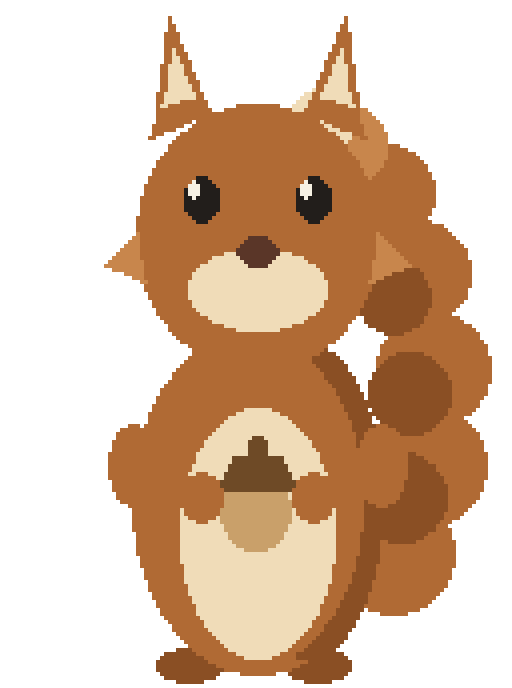
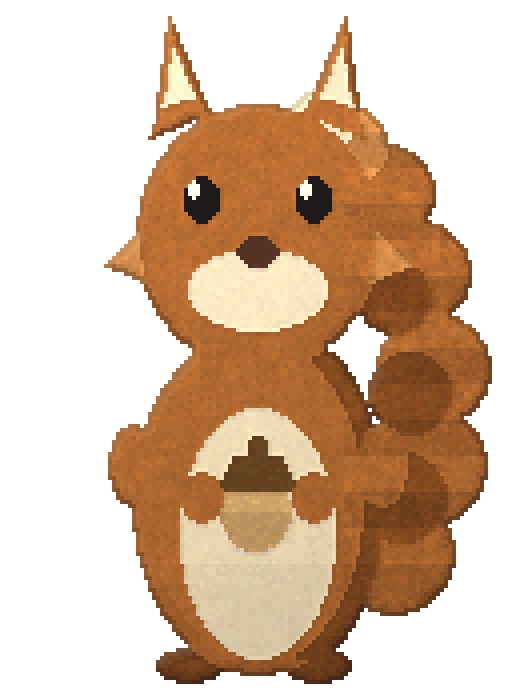
NPC art grade pass: multi-tone shading, outline ring, fur grain for the settlement four
tools/grade_npcs.py regenerates the flat PIL base from gen_npcs2.py,
grades it on the native 128x172 grid (upper-left directional tone,
internal boundary bevel, stepped hash grain, varied dark outline ring,
rim light, foot AO) with per-sprite region work — Bramble's spines get
tonal drift + sparse pale tips + pits, Tansy's tail gets banding +
grain, Vex gets cheek/scarf/body texture, the Hermit's shawl gets row
shading + folds. Alpha byte-identical, canvas 512x688, min visible
channel 26 (art law). Visible colours 9-20 -> 267-462.

diff --git a/tools/grade_npcs.py b/tools/grade_npcs.py
@@ -1,0 +1,372 @@
+#!/usr/bin/env python3
+"""Grade pass for the four settlement NPC sprites (Bramble, Tansy, Vex,
+the Hermit) — the finish the PIL-drawn folk (tools/gen_npcs2.py) lacked
+next to the generated original four and the hd2d-graded slimes.
+
+The originals carry what the flat drawings don't: multi-step tonal
+shading from an upper-left light, a dark varied outline ring, internal
+form separation at colour boundaries, mottled fur/cloth grain, and
+grounding occlusion at the feet.  This pass bakes the equivalent into
+the settlement four WITHOUT touching their silhouettes, identity or the
+512x688 canvas: the generator's flat art is rebuilt into a temp dir,
+graded on its native 128x172 grid (the drawing's own resolution, so the
+chunky pixel grain survives), then NEAREST x4 back to 512x688 exactly
+as gen_npcs2.finish() does.  Alpha is byte-identical by construction
+and asserted against the shipped file before anything is overwritten.
+
+Machinery (geometry, tone field, rim fields, hash grain) is reused from
+tools/hd2d/enhance.py — the pass Handler approved for the slimes.
+Deterministic: every texture is a splitmix hash of (x, y, seed).
+
+Art law: no true black — every visible channel ends >= 26
+(tools/lift_shadows.py's black point), asserted per sprite.
+
+Run from the repo root:  python3 tools/grade_npcs.py [--only bramble]
+"""
+
+from __future__ import annotations
+
+import argparse
+import importlib.util
+import subprocess
+import sys
+import tempfile
+from pathlib import Path
+
+import numpy as np
+from PIL import Image
+
+REPO_ROOT = Path(__file__).resolve().parents[1]
+GRID_W, GRID_H, SCALE = 128, 172, 4
+NAMES = ("bramble", "tansy", "vex", "hermit")
+
+_spec = importlib.util.spec_from_file_location(
+    "hd2d_enhance", Path(__file__).resolve().parent / "hd2d" / "enhance.py"
+)
+enh = importlib.util.module_from_spec(_spec)
+_spec.loader.exec_module(enh)
+
+INK = (34, 30, 27)        # eye ink — never grained or bevelled
+GLINT = (246, 241, 227)   # eye glint — never darkened
+WARM_RIM = (1.0, 0.94, 0.80)
+
+
+# ---------------------------------------------------------------- base art
+
+def regenerate_flat() -> dict[str, np.ndarray]:
+    """Run tools/gen_npcs2.py in a temp cwd; return {name: grid RGBA}."""
+    with tempfile.TemporaryDirectory() as tmp:
+        (Path(tmp) / "assets" / "img").mkdir(parents=True)
+        subprocess.run(
+            [sys.executable, str(REPO_ROOT / "tools" / "gen_npcs2.py")],
+            cwd=tmp, check=True, capture_output=True, text=True,
+        )
+        out = {}
+        for name in NAMES:
+            with Image.open(Path(tmp) / "assets" / "img" / f"npc-{name}.png") as im:
+                arr = np.asarray(im.convert("RGBA"))
+            grid = arr[::SCALE, ::SCALE]
+            if grid.shape != (GRID_H, GRID_W, 4):
+                raise AssertionError(f"{name}: unexpected grid {grid.shape}")
+            out[name] = grid.copy()
+    return out
+
+
+# ---------------------------------------------------------------- helpers
+
+def col_mask(flat: np.ndarray, visible: np.ndarray, *cols) -> np.ndarray:
+    m = np.zeros(flat.shape[:2], dtype=bool)
+    for c in cols:
+        m |= np.all(flat[..., :3] == np.array(c), axis=2)
+    return m & visible
+
+
+def grain(rgb, ctx, mask, seed, amp, cell=2):
+    """Stepped hash grain: factors land on discrete pixel-art steps."""
+    n = enh.hash01(ctx["x"], ctx["y"], seed, cell, cell) * 0.65 \
+        + enh.hash01(ctx["x"], ctx["y"], seed + 7) * 0.35
+    q = np.round((n - 0.5) * 4.0)
+    factor = np.where(mask, 1.0 + q * amp / 2.0, 1.0)
+    return enh.clamp01(enh.scale_rgb(rgb, factor))
+
+
+def stepped_blend(rgb, ctx, mask, centre, radii, colour, amount, steps=4):
+    field = enh.stepped(enh.ellipse_field(ctx, *centre, *radii), steps)
+    return enh.blend_to(rgb, colour, np.where(mask, field * amount, 0.0))
+
+
+# ---------------------------------------------------------------- common
+
+def grade_common(rgb, flat, ctx, seed, clean):
+    """Directional tone, internal bevel, unified grain, outline, rim, AO."""
+    visible = ctx["visible"]
+    gx, gy = ctx["x"], ctx["y"]
+
+    rgb = enh.tone_and_light(
+        rgb, ctx, contrast=0.24, saturation_factor=1.05,
+        top=0.10, bottom=0.12, left=0.045, right=0.035, rim_amount=0.0,
+    )
+
+    # Internal form separation: across a flat colour boundary the
+    # up-left pixel is the lit face, the down-right pixel the drop.
+    frgb = flat[..., :3]
+    lit = np.zeros(visible.shape, dtype=bool)
+    shade = np.zeros(visible.shape, dtype=bool)
+    edge_ok = visible & (ctx["depth"] >= 1)
+    diff_r = np.zeros(visible.shape, bool)
+    diff_r[:, :-1] = np.any(frgb[:, :-1] != frgb[:, 1:], axis=2) \
+        & visible[:, :-1] & visible[:, 1:]
+    diff_d = np.zeros(visible.shape, bool)
+    diff_d[:-1] = np.any(frgb[:-1] != frgb[1:], axis=2) \
+        & visible[:-1] & visible[1:]
+    lit[:, :-1] |= diff_r[:, :-1]; shade[:, 1:] |= diff_r[:, :-1]
+    lit[:-1] |= diff_d[:-1]; shade[1:] |= diff_d[:-1]
+    factor = np.ones(visible.shape)
+    factor[edge_ok & lit & clean] *= 1.05
+    factor[edge_ok & shade & clean] *= 0.935
+    rgb = enh.clamp01(enh.scale_rgb(rgb, factor))
+
+    # One light unified grain over everything that isn't eye detail.
+    rgb = grain(rgb, ctx, visible & (ctx["depth"] >= 1) & clean,
+                seed + 101, 0.028, cell=2)
+
+    # Outline ring: depth-0 pixels blend toward a deep shade of their own
+    # flat colour — deeper on the shadow side, lighter toward the light,
+    # so the outline varies like the generated folks' does.
+    depth = ctx["depth"]
+    ring = depth == 0
+    amt = 0.36 + 0.26 * ctx["rim_dark"] - 0.16 * ctx["rim_light"]
+    target = np.clip(flat[..., :3].astype(np.float64) / 255.0 * 0.40,
+                     26.0 / 255.0, 1.0)
+    rgb = np.where(ring[..., None],
+                   rgb * (1 - amt[..., None]) + target * amt[..., None], rgb)
+    inner = (depth == 1) & (ctx["rim_dark"] > 0.4)
+    rgb = enh.blend_to(rgb, (0.10, 0.09, 0.085),
+                       np.where(inner, 0.10, 0.0))
+
+    # Rim light on the upper-left silhouette, kept off pale faces/glints.
+    pale = enh.luminance(flat[..., :3].astype(np.float64) / 255.0) > 0.90
+    rim = (depth <= 1) & (ctx["rim_light"] > 0.28) & ~pale
+    ramt = ctx["rim_light"] * np.where(depth == 0, 0.15, 0.08)
+    rgb = enh.blend_to(rgb, WARM_RIM, np.where(rim, ramt, 0.0))
+
+    # Grounding: contact occlusion at the feet.
+    ao = (depth <= 2) & (ctx["ny"] > 0.86)
+    rgb = enh.scale_rgb(rgb, np.where(ao, 0.94, 1.0))
+    rgb = enh.clamp01(rgb)
+    _ = gx, gy
+    return rgb
+
+
+# ---------------------------------------------------------------- sprites
+
+def grade_bramble(rgb, flat, ctx, seed, clean):
+    v = ctx["visible"]; gy = ctx["y"]
+    SP, SPD, SPL = (74, 56, 38), (50, 38, 27), (112, 88, 58)
+    CRM, CRM2 = (232, 211, 172), (242, 224, 188)
+    dome = col_mask(flat, v, SP, SPD, SPL)
+    # the dome stops being one brown: coarse tonal drift + fine speckle.
+    # Spine TIPS stay sparse and live where the light lives (upper-left);
+    # an even glitter reads as noise, not spines.
+    rgb = grain(rgb, ctx, dome, seed + 11, 0.065, cell=3)
+    rgb = grain(rgb, ctx, dome, seed + 13, 0.028, cell=1)
+    roll = enh.hash01(ctx["x"], gy, seed + 17)
+    lit_side = (1.0 - ctx["ny"]) * 0.6 + (1.0 - ctx["nx"]) * 0.4
+    tips = dome & (roll > 0.955) & (lit_side > 0.35)
+    rgb = enh.blend_to(rgb, (0.78, 0.65, 0.48), np.where(tips, 0.40, 0.0))
+    pits = dome & (roll < 0.04)
+    rgb = enh.scale_rgb(rgb, np.where(pits, 0.76, 1.0))
+    rgb = grain(rgb, ctx, col_mask(flat, v, SPL), seed + 19, 0.05, cell=2)
+    # face: soft upper-left light, a whisper of jaw shade
+    face = col_mask(flat, v, CRM)
+    rgb = stepped_blend(rgb, ctx, face, (0.42, 0.46), (0.30, 0.24),
+                        tuple(c / 255 for c in CRM2), 0.38)
+    rgb = enh.scale_rgb(rgb, np.where(face & (gy >= 118), 0.96, 1.0))
+    muzzle = col_mask(flat, v, CRM2)
+    rgb = stepped_blend(rgb, ctx, muzzle, (0.50, 0.60), (0.17, 0.11),
+                        (0.985, 0.94, 0.82), 0.20)
+    # apron cloth + strap + feet
+    rgb = grain(rgb, ctx, col_mask(flat, v, (239, 230, 207), (150, 120, 84)),
+                seed + 23, 0.032, cell=2)
+    feet = col_mask(flat, v, (90, 66, 44))
+    rgb = enh.scale_rgb(rgb, np.where(feet, 0.93, 1.0))
+    return rgb
+
+
+def grade_tansy(rgb, flat, ctx, seed, clean):
+    v = ctx["visible"]; gx, gy = ctx["x"], ctx["y"]
+    FU, FUD, FUL = (176, 106, 52), (138, 79, 36), (200, 134, 76)
+    CRM = (240, 220, 184)
+    fur = col_mask(flat, v, FU, FUD, FUL)
+    # the tail: real banding across the curl + the strongest grain on her
+    tail = fur & (gx >= 86)
+    band = ((gy - 24) // 9) % 2 == 0
+    rgb = enh.scale_rgb(rgb, np.where(tail, np.where(band, 1.045, 0.945), 1.0))
+    rgb = grain(rgb, ctx, tail, seed + 11, 0.055, cell=2)
+    rgb = grain(rgb, ctx, fur, seed + 13, 0.045, cell=2)
+    rgb = grain(rgb, ctx, fur, seed + 15, 0.032, cell=5)
+    # creams lit from upper-left; belly settles at the bottom
+    cream = col_mask(flat, v, CRM)
+    rgb = stepped_blend(rgb, ctx, cream, (0.40, 0.38), (0.34, 0.30),
+                        (0.99, 0.955, 0.86), 0.22)
+    rgb = enh.scale_rgb(rgb, np.where(cream & (gy > 140), 0.96, 1.0))
+    rgb = enh.scale_rgb(rgb, np.where(fur & (gy < 14), 1.05, 1.0))
+    # acorn: two-tone nut, grained cap
+    nut = col_mask(flat, v, (201, 160, 106))
+    rgb = enh.scale_rgb(rgb, np.where(nut, np.where(gy <= 127, 1.045, 0.95), 1.0))
+    roll = enh.hash01(gx, gy, seed + 19)
+    rgb = enh.scale_rgb(rgb, np.where(nut & (roll > 0.92), 1.07, 1.0))
+    rgb = grain(rgb, ctx, col_mask(flat, v, (110, 74, 38)), seed + 23, 0.05, cell=2)
+    rgb = enh.scale_rgb(rgb, np.where(col_mask(flat, v, FUD) & (gy > 158), 0.94, 1.0))
+    return rgb
+
+
+def grade_vex(rgb, flat, ctx, seed, clean):
+    v = ctx["visible"]; gx, gy = ctx["x"], ctx["y"]
+    FU, FUD, WHT = (201, 122, 48), (164, 94, 36), (242, 234, 216)
+    DRK = (74, 52, 33)
+    head = col_mask(flat, v, FU, (222, 168, 120)) & (gy < 90)
+    rgb = stepped_blend(rgb, ctx, head, (0.38, 0.28), (0.45, 0.32),
+                        (0.87, 0.59, 0.28), 0.20)
+    rgb = enh.scale_rgb(rgb, np.where(head & (gy >= 72), 0.965, 1.0))
+    white = col_mask(flat, v, WHT)
+    muzzle = white & (gy < 90)
+    settle = enh.smoothstep(70, 86, gy)
+    rgb = enh.scale_rgb(rgb, np.where(muzzle, 1.0 - 0.05 * settle, 1.0))
+    chest = white & (gy >= 90)
+    rgb = enh.scale_rgb(rgb, np.where(chest & (ctx["nx"] > 0.60), 0.96, 1.0))
+    # scarf: fold stripes on the hanging tail, lit band top, grain
+    scarf = col_mask(flat, v, (85, 125, 60), (64, 98, 44))
+    folds = (gx // 3) % 2 == 0
+    rgb = enh.scale_rgb(rgb, np.where(scarf & (gy >= 86),
+                                      np.where(folds, 0.93, 1.0), 1.0))
+    rgb = enh.scale_rgb(rgb, np.where(scarf & (gy >= 76) & (gy <= 79), 1.06, 1.0))
+    rgb = grain(rgb, ctx, scarf, seed + 11, 0.04, cell=2)
+    # tail: gentle bands; the white tip settles grey at its foot
+    tail = col_mask(flat, v, FU) & (gx < 48)
+    band = (gy // 13) % 2 == 0
+    rgb = enh.scale_rgb(rgb, np.where(tail, np.where(band, 1.02, 0.975), 1.0))
+    rgb = enh.scale_rgb(rgb, np.where(white & (gx < 48) & (gy > 152), 0.95, 1.0))
+    # socks get a top rim; ear tips vary a touch
+    socks = col_mask(flat, v, DRK) & (gy >= 148)
+    rgb = enh.scale_rgb(rgb, np.where(socks & (gy <= 152), 1.07, 1.0))
+    rgb = grain(rgb, ctx, col_mask(flat, v, DRK), seed + 13, 0.035, cell=2)
+    rgb = grain(rgb, ctx, col_mask(flat, v, FUD), seed + 17, 0.04, cell=2)
+    # his body is the biggest single orange field of the four: give the
+    # fur itself grain and a settled lower body, and break the chest's
+    # paper flatness with a whisper of grain
+    body = col_mask(flat, v, FU) & (gy >= 90)
+    rgb = grain(rgb, ctx, body, seed + 19, 0.042, cell=2)
+    rgb = enh.scale_rgb(rgb, np.where(body & (gy >= 128), 0.97, 1.0))
+    rgb = grain(rgb, ctx, white, seed + 23, 0.018, cell=2)
+    return rgb
+
+
+def grade_hermit(rgb, flat, ctx, seed, clean):
+    v = ctx["visible"]; gx, gy = ctx["x"], ctx["y"]
+    MD, MS, MSL = (43, 96, 48), (79, 143, 68), (116, 175, 98)
+    shawl = col_mask(flat, v, MD, MS, MSL)
+    # drape shading: each scallop row sits a step deeper than the last,
+    # vertical fold stripes run down the fall, scale tops catch light
+    rows = np.clip(((gy - 94) // 10), 0, 5)
+    rgb = enh.scale_rgb(rgb, np.where(shawl, 1.0 - 0.03 * rows, 1.0))
+    folds = (gx // 4) % 2 == 0
+    rgb = enh.scale_rgb(rgb, np.where(shawl & (gy >= 92),
+                                      np.where(folds, 0.95, 1.0), 1.0))
+    above = np.zeros(shawl.shape, bool)
+    above[1:] = ~shawl[:-1]
+    rgb = enh.scale_rgb(rgb, np.where(shawl & above & v, 1.07, 1.0))
+    rgb = grain(rgb, ctx, shawl, seed + 11, 0.05, cell=2)
+    # robe: quiet vertical folds + grain
+    robe = col_mask(flat, v, (92, 84, 72), (64, 58, 50))
+    rfolds = (gx // 5) % 2 == 0
+    rgb = enh.scale_rgb(rgb, np.where(robe, np.where(rfolds, 0.955, 1.0), 1.0))
+    rgb = grain(rgb, ctx, robe, seed + 13, 0.045, cell=2)
+    rgb = enh.scale_rgb(rgb, np.where(robe & (gy > 160), 0.95, 1.0))
+    # grey fur grain; blaze lit at the brow, muzzle settled
+    fur = col_mask(flat, v, (141, 146, 145), (96, 102, 101), (170, 174, 170))
+    rgb = grain(rgb, ctx, fur, seed + 17, 0.04, cell=2)
+    rgb = grain(rgb, ctx, fur, seed + 19, 0.03, cell=4)
+    blaze = col_mask(flat, v, (238, 233, 220))
+    rgb = enh.scale_rgb(rgb, np.where(blaze & (gy < 38), 1.02, 1.0))
+    rgb = enh.scale_rgb(rgb, np.where(
+        col_mask(flat, v, (226, 219, 203)) & (gy > 88), 0.96, 1.0))
+    # the badger stripes stop being voids: a whisper of variation
+    rgb = grain(rgb, ctx, col_mask(flat, v, (51, 48, 44)), seed + 23, 0.05, cell=2)
+    # staff: vertical wood grain, darker far edge
+    staff = col_mask(flat, v, (110, 74, 38), (84, 58, 30))
+    rgb = enh.scale_rgb(rgb, np.where(staff, np.where(gx % 2 == 0, 0.95, 1.0), 1.0))
+    rgb = enh.scale_rgb(rgb, np.where(staff & (gx >= 104), 0.94, 1.0))
+    rgb = enh.scale_rgb(rgb, np.where(col_mask(flat, v, (70, 74, 72)), 0.93, 1.0))
+    return rgb
+
+
+GRADERS = {
+    "bramble": grade_bramble,
+    "tansy": grade_tansy,
+    "vex": grade_vex,
+    "hermit": grade_hermit,
+}
+
+
+# ---------------------------------------------------------------- pipeline
+
+def grade_sprite(name: str, flat_grid: np.ndarray) -> Image.Image:
+    alpha = flat_grid[..., 3].copy()
+    flat = flat_grid.copy()
+    ctx = enh.geometry(alpha)
+    seed = 0x5EED + NAMES.index(name) * 977
+    rgb = flat[..., :3].astype(np.float64) / 255.0
+
+    clean = ctx["visible"] \
+        & ~col_mask(flat, ctx["visible"], INK, GLINT, (40, 34, 30))
+
+    rgb = GRADERS[name](rgb, flat, ctx, seed, clean)
+    rgb = grade_common(rgb, flat, ctx, seed, clean)
+
+    out8 = np.rint(enh.clamp01(rgb) * 255.0)
+    out8 = np.round(out8 / 5.0) * 5.0                      # stepped tones
+    vis = alpha > 0
+    out8[vis] = np.maximum(out8[vis], 26.0)                # art law
+    grid_rgba = np.dstack((out8.astype(np.uint8), alpha))
+    grid_rgba[~vis] = (0, 0, 0, 0)
+    return Image.fromarray(grid_rgba, mode="RGBA").resize(
+        (GRID_W * SCALE, GRID_H * SCALE), Image.NEAREST)
+
+
+def main() -> int:
+    parser = argparse.ArgumentParser(description=__doc__)
+    parser.add_argument("--only", action="append", choices=list(NAMES))
+    args = parser.parse_args()
+    selected = args.only or list(NAMES)
+
+    flats = regenerate_flat()
+    for name in selected:
+        path = REPO_ROOT / "assets" / "img" / f"npc-{name}.png"
+        with Image.open(path) as im:
+            before = np.asarray(im.convert("RGBA"))
+        if before.shape != (GRID_H * SCALE, GRID_W * SCALE, 4):
+            raise AssertionError(f"{name}: shipped canvas is {before.shape}")
+        if not np.array_equal(before[..., 3], np.asarray(
+                Image.fromarray(flats[name]).resize(
+                    (GRID_W * SCALE, GRID_H * SCALE), Image.NEAREST))[..., 3]):
+            raise AssertionError(f"{name}: regenerated alpha != shipped alpha")
+
+        graded = grade_sprite(name, flats[name])
+        result = np.asarray(graded)
+        if not np.array_equal(result[..., 3], before[..., 3]):
+            raise AssertionError(f"{name}: alpha changed")
+        vis = result[..., 3] > 0
+        min_ch = int(result[vis][..., :3].min())
+        if min_ch < 26:
+            raise AssertionError(f"{name}: visible channel {min_ch} < 26")
+        n_before = len(np.unique(before[vis][..., :3], axis=0))
+        n_after = len(np.unique(result[vis][..., :3], axis=0))
+        graded.save(path)
+        print(f"{name}: 512x688, alpha identical, min visible channel "
+              f"{min_ch}, visible colours {n_before} -> {n_after}")
+    return 0
+
+
+if __name__ == "__main__":
+    raise SystemExit(main())
